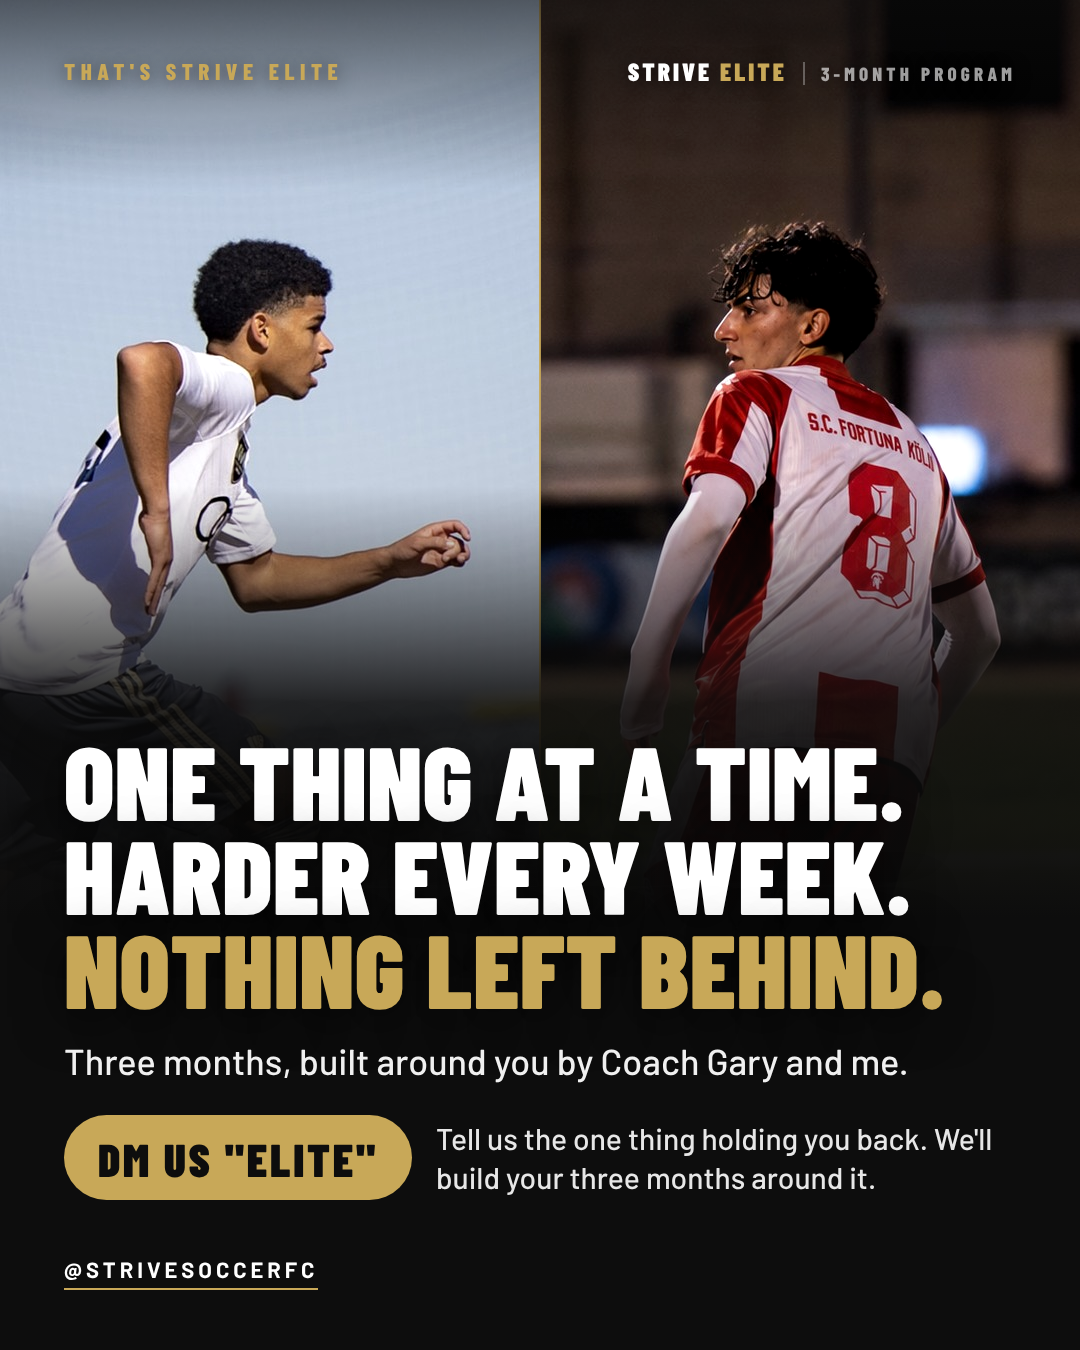
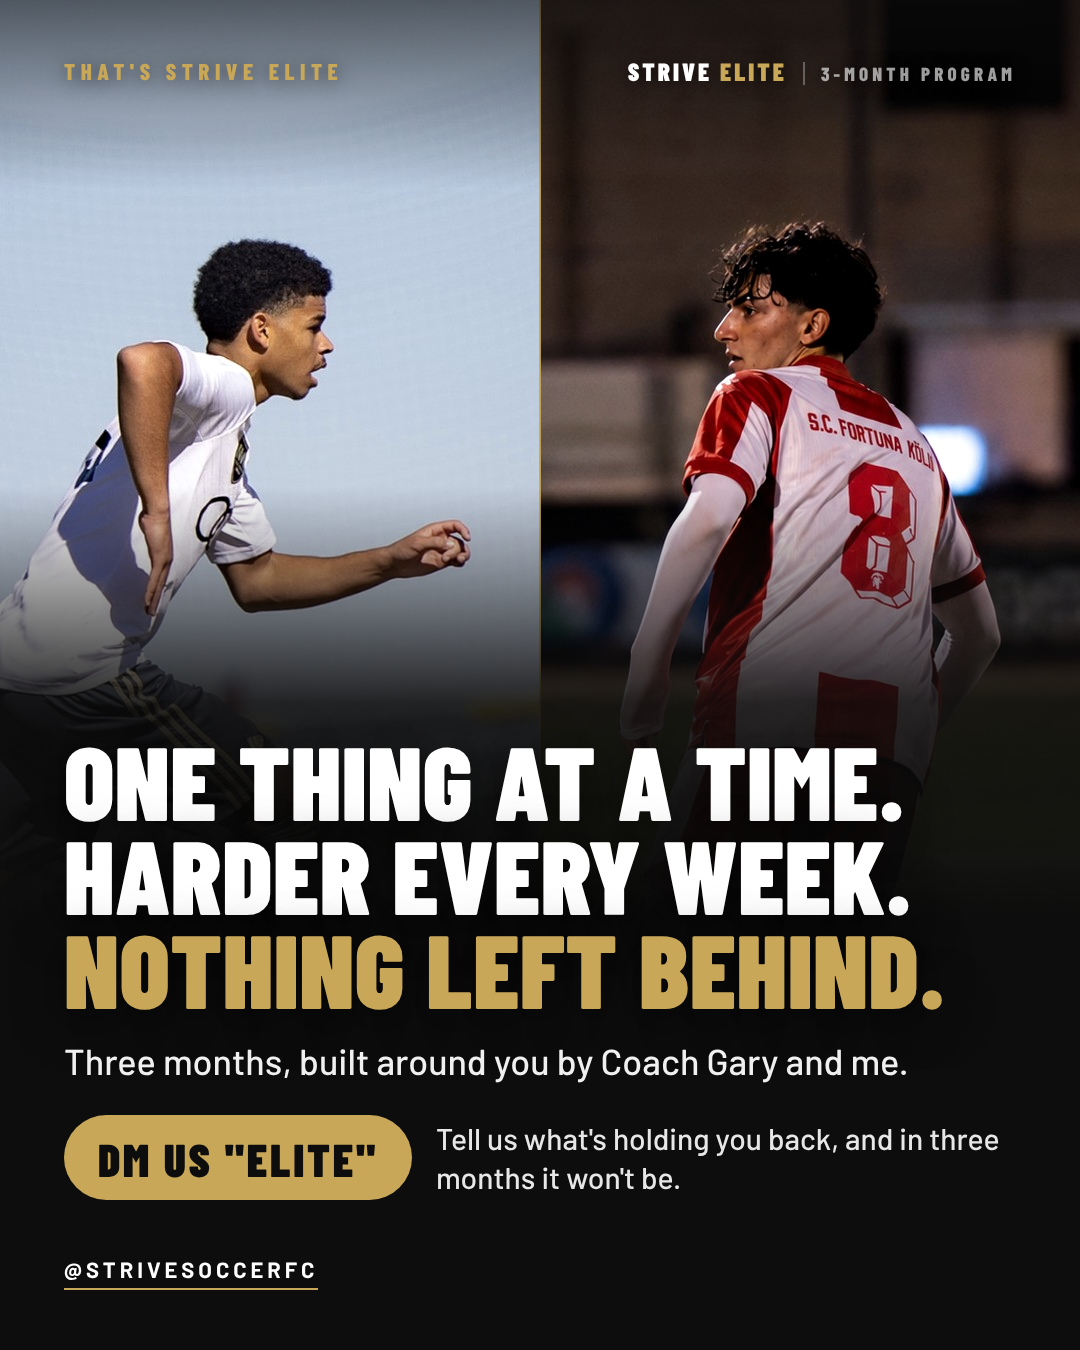
Compact carousel: last slide asks what's holding you back
Claude-Session: https://claude.ai/code/session_011JsCTTjCbUkHbTuWTKQSXJ

Changed region(s): [[0.4278, 0.84, 0.9167, 0.9022]]

diff --git a/marketing/program/one-thing-carousel-4/08-close.html b/marketing/program/one-thing-carousel-4/08-close.html
@@ -16,5 +16,5 @@ h1{font-size:104px;text-shadow:0 8px 50px rgba(0,0,0,.6)}
 <div class="top"><div class="step">That's Strive Elite</div><div class="wm">Strive <span>Elite</span><em>3-month program</em></div></div>
 <div class="low"><h1>One thing at a time. Harder every week. <span>Nothing left behind.</span></h1>
 <p class="p">Three months, built around you by Coach Gary and me.</p>
-<div class="cta"><div class="pill">DM us "Elite"</div><span>Tell us the one thing holding you back. We'll build your three months around it.</span></div></div>
+<div class="cta"><div class="pill">DM us "Elite"</div><span>Tell us what's holding you back, and in three months it won't be.</span></div></div>
 <div class="handle">@strivesoccerfc</div>

diff --git a/CLAUDE.md b/CLAUDE.md
@@ -4055,6 +4055,7 @@ commit.
       THEN Nov 12 2026 (Coach Yinka: "And can you zoom in on the Ronaldinho drill a bit?"): the Ronaldinho drill picture on compact cut slide 4 is cropped tighter, from the chest down, so his feet, the ball and the cones fill the frame (same still, frame 4). Sent, not posted.
       THEN Nov 12 2026 (Coach Yinka, with a screenshot of slide 2 in the Instagram picker: "Instead of you know this week say this is your training now"): compact cut slide 2's headline is "THIS IS YOUR TRAINING NOW." (two lines), and the grid's header follows it, "YOUR WEEK, WRITTEN DOWN" (was "That week, written down"). The rest of the slide is unchanged; rows tightened to fit. Sent, not posted.
       THEN Nov 12 2026 (Coach Yinka: "Now send the final"): THE FINAL COMPACT CAROUSEL SENT, EIGHT slides re-rendered from source in posting order (marketing/program/one-thing-carousel-4/): cover; "This is your training now" (2 drills in 4 sessions); same 4 sessions, 8 drills; progressive overload (weak foot drills, week 1 then week 2); his story; three months, six weaknesses (Finishing in weeks 11 and 12, his "dreams become reality" line); speed, strength and your games with the app phone; close. Caption in the README. NOT POSTED. Still his: "30 day" versus the 3-month program on the slides; Finishing and the Ronaldinho drill are on the slides but the app cannot give a player either in a focus today (no finishing drills; the Ronaldinho drill is switched off and filed under Ball Mastery); slide 4's reps for pop and juggle and the Ronaldinho drill differ from the bank's; the slides show 4 drills and two strength finishers a session where the app builds 3 and 1; Carla's ELITE reply should expect "the one thing holding you back".
+      THEN Nov 12 2026 (Coach Yinka: "Last slide instead of one thing, tell us what's holding you back, and in 3 months ____"): he left the ending blank for me. The line beside the DM us "ELITE" button on the compact cut's last slide is "Tell us what's holding you back, and in three months it won't be." (the ending is MY fill, his to change); the caption's last line is "DM ELITE and tell us what's holding you back." FLAG given with the send: "it won't be" is a result claim; the softer endings offered were "we'll have a plan built around it" and "you'll be a different player". Sent, not posted.
 
 ## Skills (use them without being asked)
 

diff --git a/marketing/program/one-thing-carousel-4/README.md b/marketing/program/one-thing-carousel-4/README.md
@@ -45,7 +45,7 @@ Same look, same approved lines, merged. Render: `node render.mjs 02-your-week.ht
    phone with the app's session screen.
 8. `08-close`. ONE THING AT A TIME. HARDER EVERY WEEK. NOTHING LEFT BEHIND. /
    Three months, built around you by Coach Gary and me. / DM us "ELITE" / Tell
-   us the one thing holding you back. We'll build your three months around it.
+   us what's holding you back, and in three months it won't be.
 
 ## What the cut cost (his to bring back)
 
@@ -67,7 +67,7 @@ Give your weak foot two drills every session for two weeks. Make the drills in w
 
 That is how I came back from five months out with a hip tear, in the best form of my life. It is how Coach Gary and I build every Strive Elite player's three months.
 
-DM ELITE and tell us the one thing holding you back.
+DM ELITE and tell us what's holding you back.
 
 ## Still his before it goes up
 
